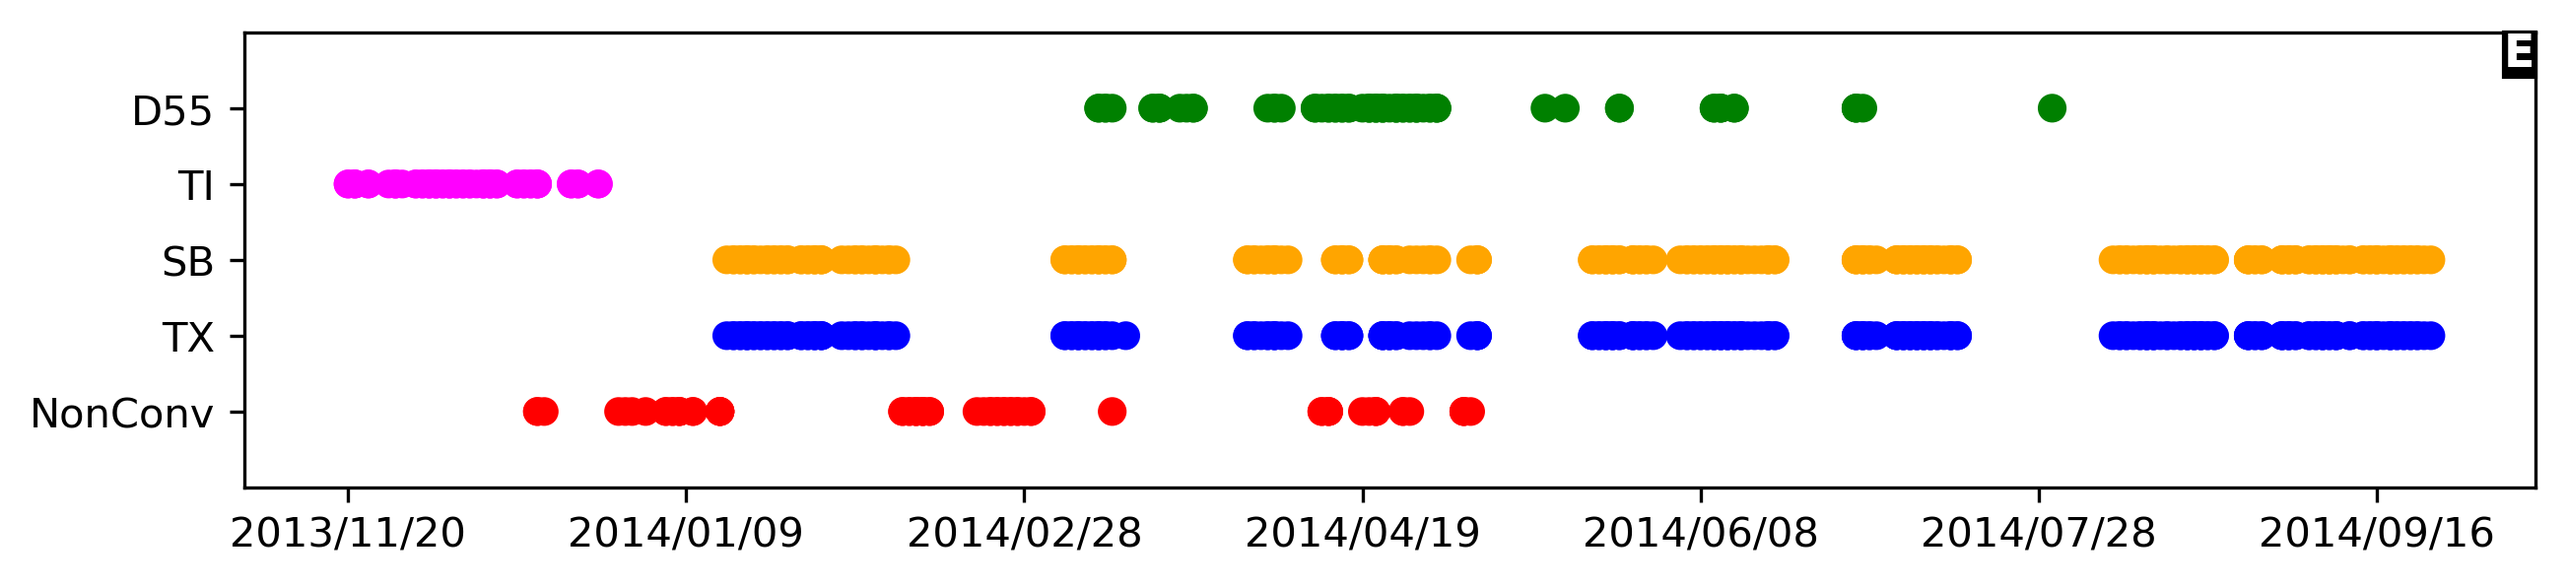
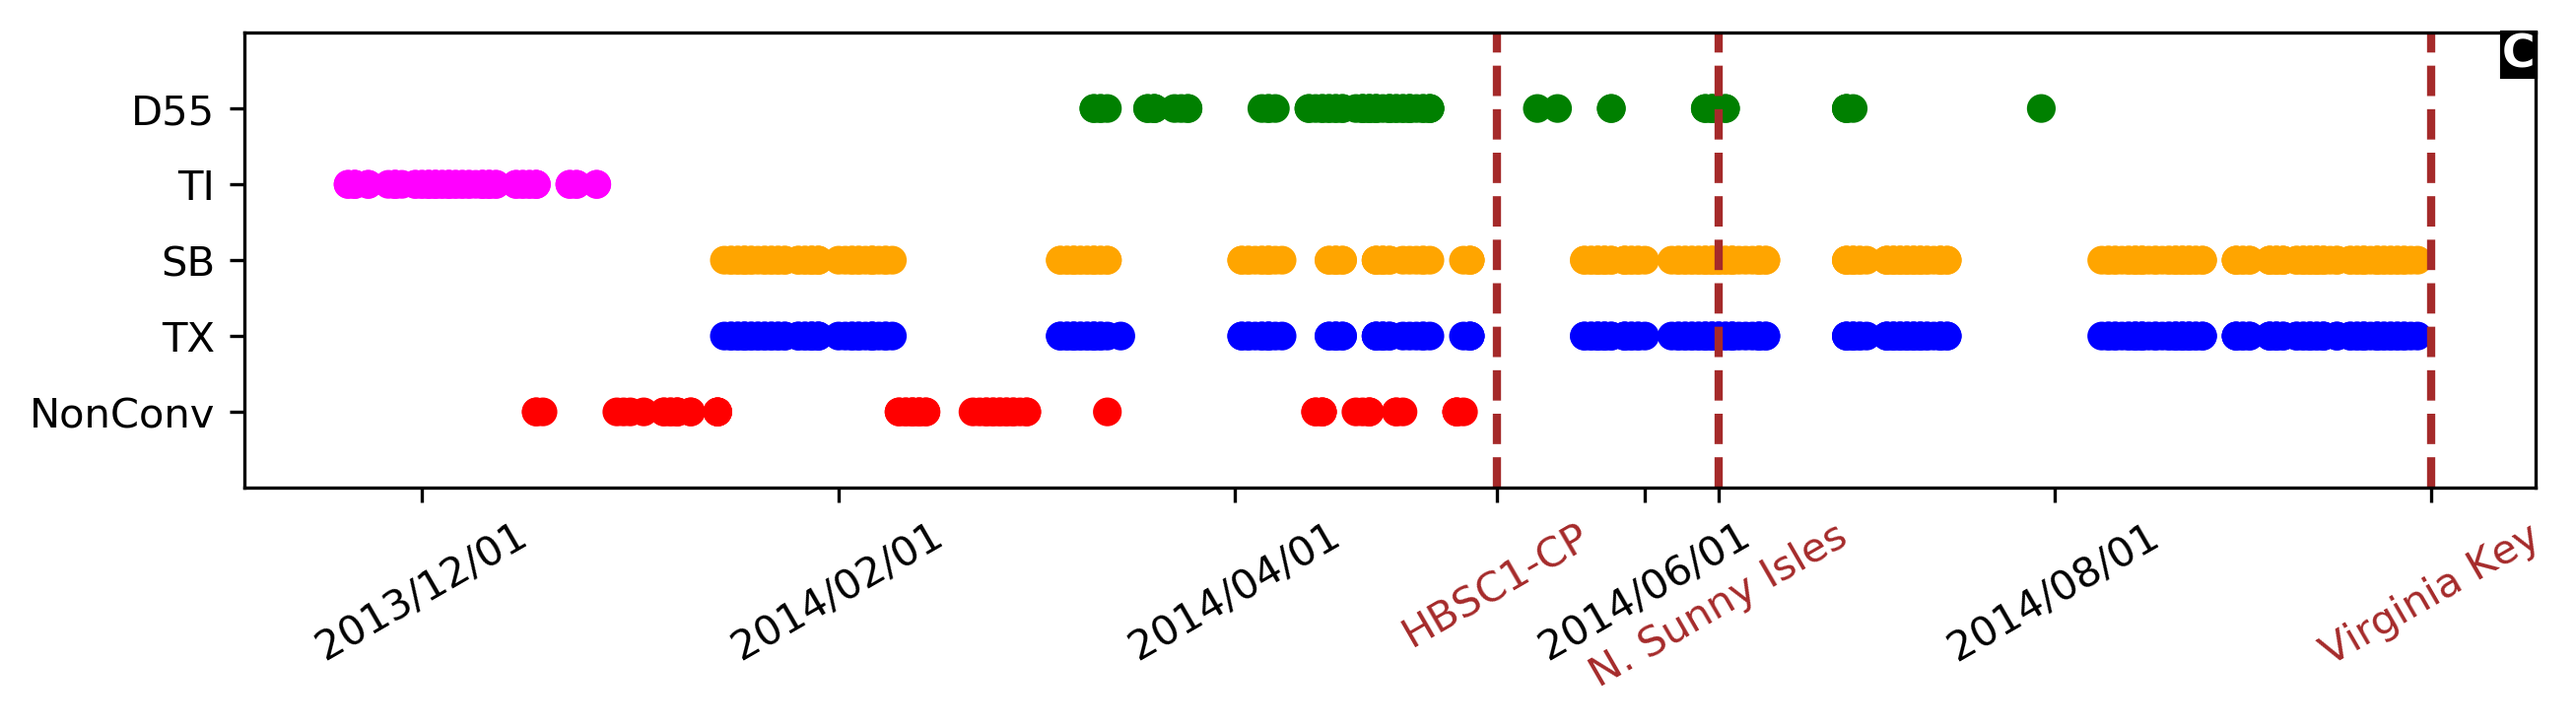
remarques du patron - part II

diff --git a/onset/main.tex b/onset/main.tex
@@ -285,13 +285,13 @@ Finally, the 2D mode of the particle tracking model was used to assess the impac
 
 Deposition results are shown for grain sizes corresponding to silts, which are more likely to carry organic matter and therefore more likely to carry SCTLD agents \citep{erftemeijer2012environmental}(Fig. \ref{fig:onset_depo}B,C). Sedimentation mostly occurred on reefs located north of the dredge channel. For grain sizes smaller than 5-50 $\mu$m, sediments mostly settled on inshore reefs while sedimentation mostly took place on offshore reefs for grain size larger than 50$\mu$m. When increasing grain sizes, the spatial distribution of sedimentation shifted southward, with a decrease of sedimentation near N. Sunny Isles and an increase of the concentration of settled sediments near HBSC1-CP and Virginia Key. The normalized cumulated deposition was around 0.01 particles/m$^2$ at site HBSC1-CP for all grain sizes while it increased from $2.5\times 10^{-7}$ to $1.6\times 10^{-3}$ with grain size at Virginia Kay. For all grain sizes, no sedimentation occurred near Rainbow Reef and Emerald Reef. However, sediments settled at similar latitudes west to these sites for grain sizes below 100 $\mu$m.
 
-The evaluation of the impact of dredging at the monitoring sites indicated that dredging did not significantly impact the stations located south of the dredge channel, except at site HBSC1-CP (Fig. \ref{fig:onset_bar}). In contrast, up to 40\% of the released sediment particles reached the northern site of N. Sunny Isles. The impact of dredging at this site decreased with sediment size and the fraction of sediment particles reaching the N. Sunny Isles dropped below 2\% for grain sizes larger than 200 $\mu$m. However, for grain sizes finer than 50 $\mu$m, N. Sunny Isles was heavily impact by TX dredging. Indeed, the number of particles produced by TX reaching N.Sunny Isles was 50\% larger than the cumulated number of particles produced by other dredging operations reaching the monitoring site for the same grain size. Such large impact can be explained by the fact that TX was one of the most frequent type of dredging during the simulations, with 268 simulated operations (Fig. \ref{fig:onset_bar}E). However, SB events occurred at an equivalent frequency but resulted in 4 times fewer particles to reach N. Sunny Isles. For grain sizes below 100 $\mu$m, between 10\% and 30\% of the sediments released by non conventional dredging reached N. Sunny Isles. This fraction dropped below  1\% for grain sizes larger than 200$\mu$m. The fraction of sediments produced by non conventional dredging reaching site HBSC1-CP remained between 1\% and 5\% for all grain sizes. For grain sizes below 100 $\mu$m, D55 and NonConv were the main sources of sediments reaching HBSC1-CP. Above 100 $\mu$m, the main source of sediments to the site became TI. The fraction of sediments produced by SB reaching HBSC1-CP remained negligible for all grain sizes. No sediment particles reached the sites of Rainbow Reef and Emerald Reef for all grain sizes. However, some particles reached Virginia Key for grain sizes larger than 100 $\mu$m. These sediments particles almost entirely originated from SB. Nonetheless, the impact of the dredging on Virginia Key remained limited with less than 1$\%$ of the released particles reaching the site.
+The evaluation of the impact of dredging at the monitoring sites indicated that dredging did not significantly impact the stations located south of the dredge channel, except at site HBSC1-CP (Fig. \ref{fig:onset_bar}). In contrast, up to 40\% of the released sediment particles reached the northern site of N. Sunny Isles. The impact of dredging at this site decreased with sediment size and the fraction of sediment particles reaching the N. Sunny Isles dropped below 2\% for grain sizes larger than 200 $\mu$m. However, for grain sizes finer than 50 $\mu$m, N. Sunny Isles was heavily impact by TX dredging. Indeed, the number of particles produced by TX reaching N.Sunny Isles was 50\% larger than the cumulated number of particles produced by other dredging operations reaching the monitoring site for the same grain size. Such large impact can be explained by the fact that TX was one of the most frequent type of dredging during the simulations, with 268 simulated operations (Fig. \ref{fig:onset_bar}C). However, SB events occurred at an equivalent frequency but resulted in 4 times fewer particles to reach N. Sunny Isles. For grain sizes below 100 $\mu$m, between 10\% and 30\% of the sediments released by non conventional dredging reached N. Sunny Isles. This fraction dropped below  1\% for grain sizes larger than 200$\mu$m. The fraction of sediments produced by non conventional dredging reaching site HBSC1-CP remained between 1\% and 5\% for all grain sizes. For grain sizes below 100 $\mu$m, D55 and NonConv were the main sources of sediments reaching HBSC1-CP. Above 100 $\mu$m, the main source of sediments to the site became TI. The fraction of sediments produced by SB reaching HBSC1-CP remained negligible for all grain sizes. No sediment particles reached the sites of Rainbow Reef and Emerald Reef for all grain sizes. However, some particles reached Virginia Key for grain sizes larger than 100 $\mu$m. These sediments particles almost entirely originated from SB. Nonetheless, the impact of the dredging on Virginia Key remained limited with less than 1$\%$ of the released particles reaching the site.
 
 \begin{figure}
     \centering
-    \includegraphics[width=.85\textwidth]{figures/aggregated_with_absolute.png}
-    \includegraphics[width=.85\textwidth]{figures/timeline.png}
-    \caption{Fraction and absolute number of sediment particles released by each type of dredge that drifted within 500 of HBSC1-CP and N. Sunnny Isles grain sized of 5-50 $\mu$m (\textbf{A},\textbf{C}) and 50-100 $\mu$m (\textbf{B},\textbf{D}). \textbf{E}: Temporal distribution of the simulated dredging operations. With the exception of HBSC1-CP, sites located south to the dredged channel were barely impacted by the dredging. However, a significant fraction of the released sediment particles reached the northern site of N. Sunny Isles. The number of simulated dredging operations is given between brackets for each dredging type}
+    \includegraphics[width=\textwidth]{figures/aggregated_new.png}
+    \includegraphics[width=\textwidth]{figures/timeline.png}
+    \caption{Fraction of sediment particles released by each type of dredge that drifted within 500 of HBSC1-CP and N. Sunnny Isles with grain sized of 5-50 $\mu$m (\textbf{A}) and 50-100 $\mu$m (\textbf{B}). \textbf{C}: Temporal distribution of the simulated dredging operations. The dates of the first reported disease signs at each monitoring site are shown in brown. With the exception of HBSC1-CP, sites located south to the dredged channel were barely impacted by the dredging. However, a significant fraction of the released sediment particles reached the northern site of N. Sunny Isles. The number of simulated dredging operations is given between brackets for each dredging type}
     \label{fig:onset_bar}
 \end{figure}
 
@@ -334,7 +334,7 @@ In the present study, we evaluated the impact of the dredging operations that to
 
 Our results suggest that the dredging works had close to no direct impact on the coral reefs of Virginia Key, indicating that disease transmission trough the produced sediments was extremely unlikely. However, our results show the sediments released by the expansion works had a non-negligible impact on the sites of N. Sunny Isles and HBSC1-CP, where signs of disease were observed before the outbreak was first reported at Virginia Key, indicating that the sediments might have played a role in the onset of the diseased at these two sites. Furthermore, using a previously developed bio-physical model that successfully reproduced the observed spread of SCTLD, we show that there was a possibility of waterborne disease propagation from HBSC1-CP to Virginia Key.
 
-This study suggests that the expansion of the Port of Miami might have played a role in the onset of the outbreak of SCTLD in sites where the disease was reported during the first half of 2014. Furthermore, it shows that the disease could then have spread from these sites to Virginia Key, from where SCTLD was then reported to propagate both north and south to the neighboring reefs. Our work brings new insight on the role played by a major dredging project in Florida on the onset of one of the worst coral outbreaks on record in the Caribbean.
+This study suggests that the expansion of the Port of Miami might have played a role in the onset of the outbreak of SCTLD in sites where the disease was reported during the first half of 2014. Furthermore, it shows that the disease could then have spread from these sites to Virginia Key, from where SCTLD was then reported to propagate both north and south to the neighboring reefs. Our work brings new insight on the impact of a major dredging project in Florida on the onset of one of the worst coral outbreaks on record in the Caribbean.
 
 \bibliographystyle{elsarticle-harv} 
 \bibliography{./biblio.bib}
